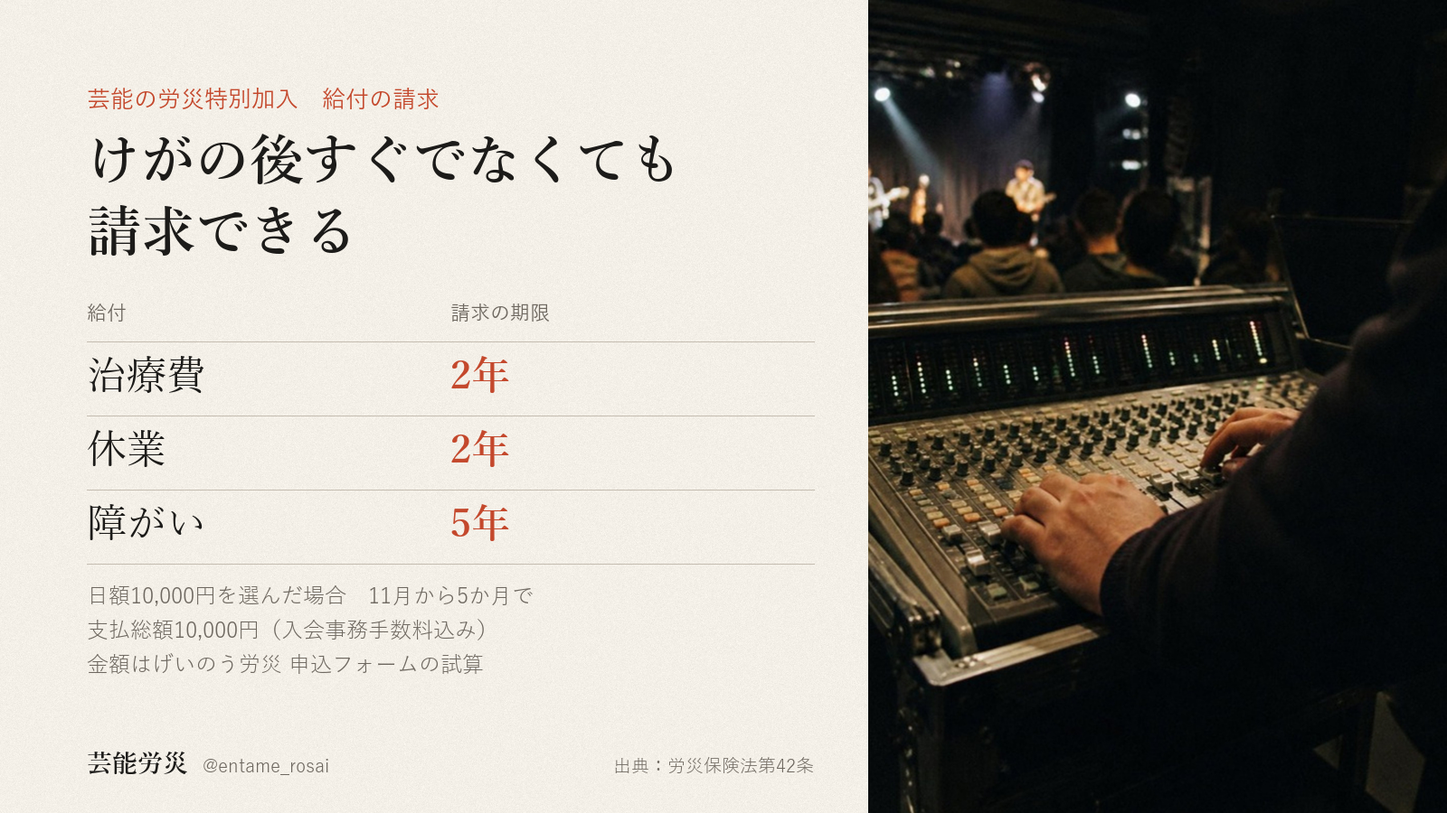
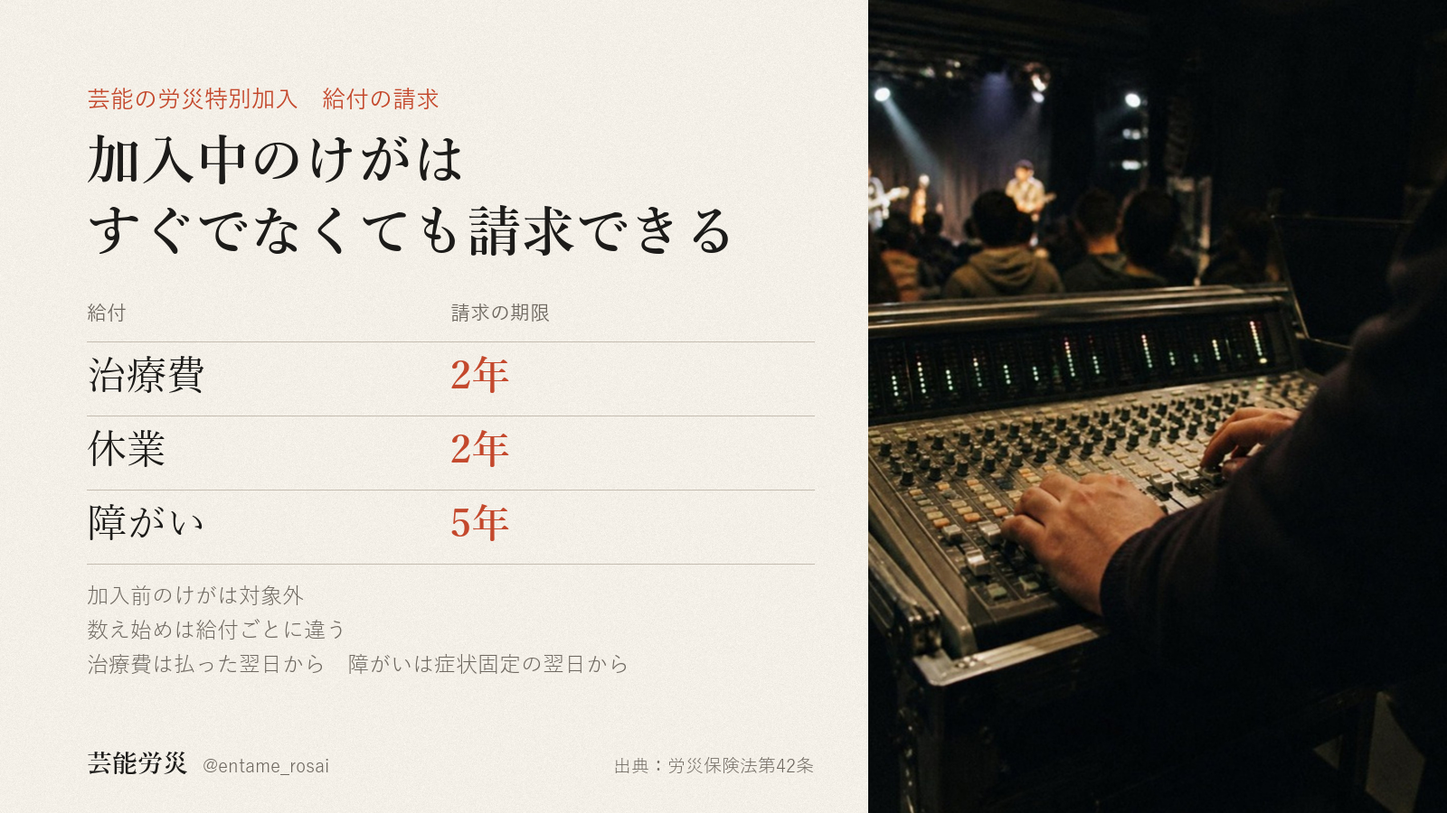
投稿デスク更新 2026-11-18 点検修正

diff --git a/index.html b/index.html
@@ -351,7 +351,7 @@ dialog img{width:100%;height:auto;border-radius:18px;display:block}
 <div class="toast" id="toast">コピーしました</div>
 <dialog id="zoom"><img alt=""></dialog>
 
-<script id="desk-data" type="application/json">{"account":"@entame_rosai","days":[{"date":"2026-11-18","label":"11月18日（水）　今日","items":[{"key":"ig","date":"2026-11-01","label":"Instagram（@entame_rosai）","account":"@entame_rosai","text":"労災の特別加入は、申込のときに「何月から入るか」「何か月入るか」「給付基礎日額をいくらにするか」の3つを自分で決めます。\n\n何月から入るかは、11月1日時点の申込フォームでは2026年11月から2027年3月までの中から選べます。何か月入るかは1か月から。公演や撮影の期間に合わせて決められます。\n\n給付基礎日額は、補償の基準になる1日あたりの額です。3,500円から25,000円までの16段階から、実際の収入とは切り離して自分で選びます。\n\n毎月の支払いは、日額10,000円を選んだ場合で月1,600円。内訳は保険料912円、組合費500円、手数料188円です。ほかに入会事務手数料2,000円が初月だけかかるので、初月の支払いは3,600円です。保険料912円の部分は社会保険料控除の対象です。\n\nひとつ大事なことがあります。さかのぼって入ることはできません。補償は申込で選んだ月から始まり、それより前のけがは対象になりません。現場の予定が決まったら、先に手続きを済ませておく形です。\n\n手続きはプロフィール欄のサイトからできます。迷う点があれば、コメントに書いてもらえれば調べます。\n\n私たちは東京労働局長の承認を受けた労災保険特別加入団体で、加入の受付もしている当事者です。そのうえで書いています。特別加入を扱う団体は、私たちのほかにもあります。\n\n※給付の可否・金額は個別の状況により労働基準監督署が判断します。\n※金額は、給付基礎日額10,000円を選んだ場合の例です。","chars":628,"lines":16,"hashtags":0,"limit":0,"status":"生成済・未投稿（本人の投稿許可あり。Chrome で instagram.com を開く操作が承認待ちのまま5分応答がなく送信されず。次に本人がいるときに投稿する）","url":"","images":[{"name":"01.png","path":"assets/2026-11-01/instagram/01.png"},{"name":"02.png","path":"assets/2026-11-01/instagram/02.png"},{"name":"03.png","path":"assets/2026-11-01/instagram/03.png"},{"name":"04.png","path":"assets/2026-11-01/instagram/04.png"},{"name":"05.png","path":"assets/2026-11-01/instagram/05.png"},{"name":"06.png","path":"assets/2026-11-01/instagram/06.png"},{"name":"07.png","path":"assets/2026-11-01/instagram/07.png"}],"alt":"--- 1枚目 ---\n暗い劇場の舞台の縁に腰かけ、赤い客席を見ている人の後ろ姿の写真。文字：フリーランスの労災保険。加入の手続き。申込で決めることと毎月の支払い。さかのぼって入ることはできないので、先に手続きの中身をまとめました。芸能労災 @entame_rosai 01/07\n\n--- 2枚目 ---\n上半分は夕方の住宅街の路上で、ブームマイクを掲げる録音係とカメラを担ぐ撮影係の後ろ姿の写真。下は生成り色の紙面。文字：申込で決めること1。何月から入るか。開始月は申込のときに選びます。11月1日時点では、2026年11月から2027年3月までの中から選べます。補償は、選んだ月から始まります。出典：当団体申込フォーム（11月1日時点）。02/07\n\n--- 3枚目 ---\n右に、屋外のカメラ機材とモニターを操作する手の縦長写真。左は紙面。文字：申込で決めること2。何か月入るか。加入期間は1か月から選べます。公演や撮影の期間に合わせて決められます。何月から何か月かを申込のときにあわせて決めます。出典：当団体申込フォーム（11月1日時点）。03/07\n\n--- 4枚目 ---\n文字だけの紙面。申込で決めること3。16段階。給付基礎日額を3,500円から25,000円まで。4列の一覧：3,500、4,000、5,000、6,000、7,000、8,000、9,000、10,000（朱色）、12,000、14,000、16,000、18,000、20,000、22,000、24,000、25,000。単位は円。補償の基準になる1日あたりの額で、実際の収入とは切り離して自分で選びます。朱色の10,000円を次のページの例に使います。出典：労災保険法（特別加入）。04/07\n\n--- 5枚目 ---\n文字だけの紙面。毎月の支払い。日額10,000円なら月1,600円。表：内訳／月額。保険料 912円。組合費 500円。手数料 188円。合計 1,600円。ほかに入会事務手数料2,000円が初月だけかかります。初月の支払いは3,600円です。支払いのうち保険料912円の部分は、社会保険料控除の対象です。出典：当団体申込フォーム（11月1日時点）。05/07\n\n--- 6枚目 ---\n上に、黒い服のスタッフ2人が大きな機材ケースを運ぶ後ろ姿の写真の帯。下は紙面。文字：大事なこと。さかのぼって入ることはできない。補償の開始：申込で選んだ月から。それより前のけが：対象外。現場の予定が決まったら：先に手続き。手続きはプロフィール欄のサイトから。迷う点があれば、コメントに書いてもらえれば調べます。出典：当団体申込フォーム（11月1日時点）。06/07\n\n--- 7枚目 ---\n舞台袖の衣装ラックと、パイプ椅子の上に開いた台本の写真を暗くした全面。文字：入る月と期間は自分で決められます。何月から何か月入るか、日額をいくらにするか。申込のときに自分で選べます。迷う点があれば、コメントに書いてもらえれば調べます。私たちは東京労働局長の承認を受けた労災保険特別加入団体で、加入の受付もしている当事者です。そのうえで書いています。特別加入を扱う団体は、私たちのほかにもあります。※給付の可否・金額は個別の状況により労働基準監督署が判断します。※金額は、給付基礎日額10,000円を選んだ場合の例です。芸能労災 @entame_rosai 07/07","check":{"errors":[],"warns":[]},"made":"2026-11-01","slot":"2026-11-18"},{"key":"x","date":"2026-11-09","label":"X（@entame_rosai）","account":"@entame_rosai","text":"労災の特別加入で仕事中のけがにより障がいが残ったとき、重い等級（1〜7級）の給付は一時金ではなく年金で、毎年続きます。日額10,000円を選んだ場合、1級で年313万円（日額の313日分）です。8〜14級は一時金です。（労災保険法 別表第1・当団体申込フォーム）","chars":131,"lines":1,"hashtags":0,"limit":140,"status":"（台帳に記載なし）","url":"","images":[{"name":"x_image.png","path":"assets/2026-11-09/x_image/x_image.png"}],"alt":"青い照明の暗い舞台に、木の椅子が4脚並んでいる写真。左の紙面に次の文字。芸能の労災特別加入　障がいが残ったとき。一時金ではなく年金で続く。重い等級（1〜7級）の給付は年金。日額10,000円を選んだ場合。1級で年313万円（日額の313日分）。8〜14級は一時金。芸能労災 @entame_rosai。出典：労災保険法 別表第1／当団体の申込フォーム","check":{"errors":[],"warns":[]},"made":"2026-11-09","slot":"2026-11-18"}]},{"date":"2026-11-19","label":"11月19日（木）　投稿予定","items":[{"key":"x","date":"2026-11-10","label":"X（@entame_rosai）","account":"@entame_rosai","text":"労災の特別加入は、現場へ向かう途中と帰り道のけがも通勤災害として対象です。芸能の仕事は適用から外れていません。ただし対象は合理的な経路に限られ、寄り道すると、その間とその後の移動は原則対象外です。給付は仕事中のけがと同じです。（労災保険法第7条・厚労省 特別加入制度のしおり）","chars":138,"lines":1,"hashtags":0,"limit":140,"status":"（台帳に記載なし）","url":"","images":[{"name":"x_image.png","path":"assets/2026-11-10/x_image/x_image.png"}],"alt":"ポスターが貼られた狭い廊下を、ギターケースを提げた長髪の人が奥へ歩いていく後ろ姿の写真。左の紙面に次の文字。芸能の労災特別加入　通勤災害。行き帰りのけがも対象。場面／労災の扱い。現場へ向かう途中／対象。現場からの帰り道／対象。経路外に寄り道／原則対象外。寄り道の間とその後の移動は原則対象外　給付は仕事中のけがと同じ。芸能労災 @entame_rosai。出典：労災保険法第7条／厚労省 特別加入のしおり","check":{"errors":[],"warns":[]},"made":"2026-11-10","slot":"2026-11-19"}]},{"date":"2026-11-20","label":"11月20日（金）　投稿予定","items":[{"key":"x","date":"2026-11-11","label":"X（@entame_rosai）","account":"@entame_rosai","text":"労災の特別加入で仕事中のけがを治療するとき、治療費に金額の上限も、決まった期間の上限もありません。症状が固定する（治療を続けても変わらない状態になる）まで療養給付の対象です。労災指定の医療機関なら窓口での支払いはありません。どの日額を選んでも同じです。（労災保険法第13条）","chars":137,"lines":1,"hashtags":0,"limit":140,"status":"（台帳に記載なし）","url":"","images":[{"name":"x_image.png","path":"assets/2026-11-11/x_image/x_image.png"}],"alt":"暗い稽古場の床に座り、足首にテーピングを巻いているダンサーの足元の写真。左の紙面に次の文字。芸能の労災特別加入　仕事中のけがの治療。治療費に上限なし。金額にも期間にも上限なし。症状が固定するまで療養給付の対象。労災指定の医療機関なら窓口での支払いなし。症状の固定＝治療を続けても変わらない状態。どの日額を選んでも同じ。芸能労災 @entame_rosai。出典：労災保険法第13条","check":{"errors":[],"warns":[]},"made":"2026-11-11","slot":"2026-11-20"}]},{"date":"2026-11-21","label":"11月21日（土）　投稿予定","items":[{"key":"x","date":"2026-11-12","label":"X（@entame_rosai）","account":"@entame_rosai","text":"「フリーランスだから、仕事中のけがは自己責任」。そう言われてきた芸能の現場に、別の選択肢があります。\n\n契約に基づいて働くフリーランスの芸能従事者は、2021年から国の労災保険に特別加入できます。治療や休業への補償がある、あなたの側の制度です。\n\n（出典：労災保険法第35条）\n\n――――――――――――――――――――\n字数：138字（改行4含む）／本文134字\n型：権利フレーム（型3・誤解修正の系統。矛先を「言われてきた言い方＝構造」に置く）\n導線：プロフィール欄（rousai.or.jp）。本文に外部リンクなし\n\n検証メモ\n- 140字以内：○（138）／10行以内：○（5行）\n- ハッシュタグ0・絵文字0・本文リンク0・出典を本文末に括弧書き：○\n- 「すべての芸能従事者」ではなく「フリーランスの芸能従事者」：○\n- 給付額・保険料の数字に触れていない＝前提併記/総額表記は不要：○\n- 補償（保障ではない）：○／厚生労働省認可など禁止表現なし：○\n- 締め方：「あなたの側の制度です」＝権利フレーム。禁止の締め（知っていましたか／しませんか／たった／怪我をしてからでは遅い）に該当なし：○\n- 受信者テスト：すでにけがをして自費で払った人が読んでも、矛先は「自己責任と言われてきた構造」に向き、本人を責めない。「別の選択肢／あなたの側」で迎える構成：○\n- 直近重複チェック：10/4〜11/1 の投稿は給付の中身・遡及不可・海外比較が中心。本案は対象認知（権利フレーム）で角度が異なる：○\n\n未了（投稿前に必要）\n- 図解/写真画像＋代替テキスト（現行の紙＋写真デザイン。tools/x_image.py の paper_ 系）\n- 投稿デスク（投稿サイト/build.py）への反映\n- 公開前に tools/check_post.py と daily-checker を通す\n- 投稿は本人の許可を得てから（自動投稿しない）","chars":799,"lines":26,"hashtags":0,"limit":140,"status":"（台帳に記載なし）","url":"","images":[{"name":"x_image.png","path":"assets/2026-11-12/x_image/x_image.png"}],"alt":"軍手をはめた両手が、舞台の黒い床に白いテープで立ち位置の目印を貼っている手元の写真。顔は写っていない。左の紙面に次の文字。芸能の労災特別加入　保険料と確定申告。912円。月の保険料は全額が社会保険料控除の対象。日額10,000円を選んだ場合　月の支払い1,600円のうちの保険料。ほかに初月のみ入会事務手数料2,000円。芸能労災 @entame_rosai。出典：国税庁 No.1130　金額は申込フォームの試算","check":{"errors":["禁止文字列: 知っていましたか（1件）　… …方：「あなたの側の制度です」＝権利フレーム。禁止の締め（知っていましたか／しませんか／たった／怪我をしてからでは遅い）に該当なし…","禁止表現: 保障（1件）　… …に触れていない＝前提併記/総額表記は不要：○ - 補償（保障ではない）：○／厚生労働省認可など禁止表現なし：○ - …","禁止表現: 厚生労働省認可（1件）　… …併記/総額表記は不要：○ - 補償（保障ではない）：○／厚生労働省認可など禁止表現なし：○ - 締め方：「あなたの側の制度です…","禁止表現: すべての芸能従事者（1件）　… …文字0・本文リンク0・出典を本文末に括弧書き：○ - 「すべての芸能従事者」ではなく「フリーランスの芸能従事者」：○ - 給付額・…","禁止表現: たった（1件）　… …権利フレーム。禁止の締め（知っていましたか／しませんか／たった／怪我をしてからでは遅い）に該当なし：○ - 受信者テス…","禁止表現: しませんか（1件）　… …制度です」＝権利フレーム。禁止の締め（知っていましたか／しませんか／たった／怪我をしてからでは遅い）に該当なし：○ - 受…","禁止表現: 怪我をしてからでは遅い（1件）　… …ーム。禁止の締め（知っていましたか／しませんか／たった／怪我をしてからでは遅い）に該当なし：○ - 受信者テスト：すでにけがをして自費…","絵文字: ○○○○○○○○○○","内部ラベルが本文に混ざっている: 型3","内部ラベルが本文に混ざっている: 検証メモ","内部ラベルが本文に混ざっている: 受信者テスト"],"warns":[]},"made":"2026-11-12","slot":"2026-11-21"}]},{"date":"2026-11-22","label":"11月22日（日）　投稿予定","items":[{"key":"x","date":"2026-11-13","label":"X（@entame_rosai）","account":"@entame_rosai","text":"労災の特別加入が対象にするのは、本番だけではありません。契約に基づく稽古やリハーサル中のけがも対象です。契約と結びつかない自主練習は、認められない場合があります。対象になるかは、労働基準監督署が個別に判断します。\n（労災保険法の特別加入・厚生労働省の通達）","chars":127,"lines":2,"hashtags":0,"limit":140,"status":"（台帳に記載なし）","url":"","images":[{"name":"x_image.png","path":"assets/2026-11-13/x_image/x_image.png"}],"alt":"夕方の光が差しこむ、だれもいない稽古場。壁に鏡とバー、時計がある写真。その左に文字。「芸能の労災特別加入　仕事中のけがの範囲　本番だけではありません」。表は、けがをした場面と扱い。本番：対象。契約に基づく稽古：対象。自主練習：対象外の場合あり。「契約に基づくリハーサルも対象です　対象になるかは労働基準監督署が個別に判断します」。出典：労災保険法の特別加入　厚生労働省の通達。芸能労災 @entame_rosai","check":{"errors":[],"warns":[]},"made":"2026-11-13","slot":"2026-11-22"}]},{"date":"2026-11-23","label":"11月23日（月）　投稿予定","items":[{"key":"x","date":"2026-11-14","label":"X（@entame_rosai）","account":"@entame_rosai","text":"労災の特別加入で受け取る給付に税金はかかりません。払った保険料は全額が社会保険料控除の対象です。日額10,000円を選んだ場合の支払いは月1,600円（保険料912円＋組合費500円＋手数料188円）と入会事務手数料2,000円。控除の対象は保険料です。\n（労災保険法・所得税法）","chars":139,"lines":2,"hashtags":0,"limit":140,"status":"（台帳に記載なし）","url":"","images":[{"name":"x_image.png","path":"assets/2026-11-14/x_image/x_image.png"}],"alt":"稽古場の木の机に、開いた台本と鉛筆が置かれている写真。奥に折りたたみ椅子と窓。左側の紙面に次の文字。「芸能の労災特別加入　税金の扱い」「給付に税金はかかりません」「受け取る給付は非課税　払った保険料は全額が社会保険料控除の対象」「日額10,000円を選んだ場合　月1,600円　保険料912円＋組合費500円＋手数料188円　ほかに入会事務手数料2,000円　控除の対象は保険料です」「芸能労災 @entame_rosai」「出典：労災保険法　所得税法」","check":{"errors":[],"warns":[]},"made":"2026-11-14","slot":"2026-11-23"}]},{"date":"2026-11-24","label":"11月24日（火）　投稿予定","items":[{"key":"x","date":"2026-11-15","label":"X（@entame_rosai）","account":"@entame_rosai","text":"労災の特別加入で、仕事中のけがにより働けない日は休業の給付があります。日額10,000円を選んだ場合、1日8,000円（休業補償給付60%＋特別支給金20%）。4日目からで、まったく働けない日が対象です。期間の上限はありません。（労災保険法・労災保険特別支給金規則）","chars":133,"lines":1,"hashtags":0,"limit":140,"status":"（台帳に記載なし）","url":"","images":[{"name":"x_image.png","path":"assets/2026-11-15/x_image/x_image.png"}],"alt":"左に生成りの紙、右に写真。写真は電球の並んだ鏡のある楽屋で、鏡の前に化粧筆の入った容器と椅子が置かれている。人は写っていない。\n画像の文字：「芸能の労災特別加入　休業の給付」「80%」「働けない日は1日につき 給付基礎日額の80%」「日額10,000円を選んだ場合　1日8,000円」「休業補償給付60%＋特別支給金20%」「4日目から　まったく働けない日が対象　期間の上限なし」「芸能労災 @entame_rosai」「出典：労災保険法　労災保険特別支給金規則」","check":{"errors":[],"warns":[]},"made":"2026-11-15","slot":"2026-11-24"}]},{"date":"2026-11-25","label":"11月25日（水）　投稿予定","items":[{"key":"x","date":"2026-11-16","label":"X（@entame_rosai）","account":"@entame_rosai","text":"労災の特別加入の申込では、加入を始める月と、加入する月数を自分で選びます。日額10,000円を選んだ場合、11月から5か月の加入で支払総額は10,000円です（月1,600円×5か月＋入会事務手数料2,000円）。（げいのう労災 申込フォームの試算）","chars":125,"lines":1,"hashtags":0,"limit":140,"status":"（台帳に記載なし）","url":"","images":[{"name":"x_image.png","path":"assets/2026-11-16/x_image/x_image.png"}],"alt":"左に生成りの紙、右に写真。写真は暗い空間に吊られた舞台用のスポットライトが4灯並んで点いているところで、光の中に薄く煙が漂っている。人は写っていない。\n画像の文字：「芸能の労災特別加入　申込のしくみ」「始める月と月数は 自分で選ぶ」「11月から5か月の場合　金額」「月の支払い5か月分　8,000円」「入会事務手数料　2,000円」「支払総額　10,000円」「日額10,000円を選んだ場合　月の支払いは1,600円」「内訳＝保険料912円＋組合費500円＋手数料188円」「芸能労災 @entame_rosai」「出典：げいのう労災　申込フォームの試算」","check":{"errors":[],"warns":[]},"made":"2026-11-16","slot":"2026-11-25"}]},{"date":"2026-11-26","label":"11月26日（木）　投稿予定","items":[{"key":"x","date":"2026-11-17","label":"X（@entame_rosai）","account":"@entame_rosai","text":"労災の特別加入は2024年11月から、企業から仕事を受けるフリーランス全般に広がりました。芸能の仕事は2021年4月から対象です。日額10,000円を選んだ場合、11月から5か月で支払総額10,000円（入会事務手数料込み）。（厚生労働省／げいのう労災 申込フォームの試算）","chars":137,"lines":1,"hashtags":0,"limit":140,"status":"（台帳に記載なし）","url":"","images":[{"name":"x_image.png","path":"assets/2026-11-17/x_image/x_image.png"}],"alt":"左は生成りの紙の地に文字、右は暗い舞台の床を紫のスポットライト3灯が照らす写真。文字：芸能の労災特別加入　対象の広がり。芸能の仕事は2021年4月から対象。2024年11月からは企業から仕事を受けるフリーランス全般に広がった。日額10,000円を選んだ場合　11月から5か月で支払総額10,000円（入会事務手数料込み）。金額はげいのう労災 申込フォームの試算。出典：厚生労働省。芸能労災 @entame_rosai","check":{"errors":[],"warns":[]},"made":"2026-11-17","slot":"2026-11-26"}]},{"date":"2026-11-27","label":"11月27日（金）　投稿予定","items":[{"key":"x","date":"2026-11-18","label":"X（@entame_rosai）","account":"@entame_rosai","text":"労災の特別加入の給付は、けがの後すぐに請求しなくても受け取れます。請求の期限は治療費と休業の給付が2年、障がいの給付が5年です。日額10,000円を選んだ場合、11月から5か月で支払総額10,000円（入会事務手数料込み）。（労災保険法第42条／げいのう労災 申込フォームの試算）","chars":140,"lines":1,"hashtags":0,"limit":140,"status":"（台帳に記載なし）","url":"","images":[{"name":"x_image.png","path":"assets/2026-11-18/x_image/x_image.png"}],"alt":"ライブ会場の客席後方で、音響担当の手がミキサー卓のつまみを操作している写真。奥のステージではギターを持った演奏者に照明が当たっている。左側の文字：芸能の労災特別加入　給付の請求。けがの後すぐでなくても請求できる。給付と請求の期限の表：治療費 2年、休業 2年、障がい 5年。日額10,000円を選んだ場合　11月から5か月で支払総額10,000円（入会事務手数料込み）。金額はげいのう労災 申込フォームの試算。出典：労災保険法第42条。芸能労災 @entame_rosai","check":{"errors":[],"warns":[]},"made":"2026-11-18","slot":"2026-11-27"}]}],"todo":[{"due":"今日","who":"作業者","title":"X（@entame_rosai）の今日の投稿","detail":"画像1枚を添付 → 代替テキストを入れる → 本文を貼る、の順。代替テキストは直近の投稿で入っていません。X は投稿後に足せません。","cid":"c-2026-11-09-x"},{"due":"今日","who":"作業者","title":"Instagram を1本投稿（11/1（日）作成の分）","detail":"画像7枚をこの順で添付し、1枚ずつ代替テキストを入れる。未投稿は1本。前回の公開から1週間あけて1本ずつ。","cid":"c-2026-11-01-ig"},{"due":"未公開のまま","who":"矢部さん","title":"note の記事を公開（09/18作成）","detail":"このデスクには載っていません（note は矢部さんの手元の下書き）。公開するときは見出し画像を必ず設定。","cid":""},{"due":"未公開のまま","who":"矢部さん","title":"note の記事を公開（10/09作成）","detail":"このデスクには載っていません（note は矢部さんの手元の下書き）。公開するときは見出し画像を必ず設定。","cid":""},{"due":"投稿のたび","who":"作業者","title":"投稿URLと名前を、そのカードの欄に保存","detail":"記録が集まらないと、何が出たかを後から確かめられません。","cid":""}],"builtAt":"2026-11-18 12:03","today":"2026-11-18","followers":{"date":"10-13","x":5,"ig":21,"note":0},"hero":"assets/hero.jpg","endpoint":"https://script.google.com/macros/s/AKfycbxhxM75PszpPOX_HDJ4yuBmQSqu1b7CXq2sbCxlqTZ_TyF8hROH2MyKnYNU11avb8UQCA/exec"}</script>
+<script id="desk-data" type="application/json">{"account":"@entame_rosai","days":[{"date":"2026-11-18","label":"11月18日（水）　今日","items":[{"key":"ig","date":"2026-11-01","label":"Instagram（@entame_rosai）","account":"@entame_rosai","text":"労災の特別加入は、申込のときに「何月から入るか」「何か月入るか」「給付基礎日額をいくらにするか」の3つを自分で決めます。\n\n何月から入るかは、11月1日時点の申込フォームでは2026年11月から2027年3月までの中から選べます。何か月入るかは1か月から。公演や撮影の期間に合わせて決められます。\n\n給付基礎日額は、補償の基準になる1日あたりの額です。3,500円から25,000円までの16段階から、実際の収入とは切り離して自分で選びます。\n\n毎月の支払いは、日額10,000円を選んだ場合で月1,600円。内訳は保険料912円、組合費500円、手数料188円です。ほかに入会事務手数料2,000円が初月だけかかるので、初月の支払いは3,600円です。保険料912円の部分は社会保険料控除の対象です。\n\nひとつ大事なことがあります。さかのぼって入ることはできません。補償は申込で選んだ月から始まり、それより前のけがは対象になりません。現場の予定が決まったら、先に手続きを済ませておく形です。\n\n手続きはプロフィール欄のサイトからできます。迷う点があれば、コメントに書いてもらえれば調べます。\n\n私たちは東京労働局長の承認を受けた労災保険特別加入団体で、加入の受付もしている当事者です。そのうえで書いています。特別加入を扱う団体は、私たちのほかにもあります。\n\n※給付の可否・金額は個別の状況により労働基準監督署が判断します。\n※金額は、給付基礎日額10,000円を選んだ場合の例です。","chars":628,"lines":16,"hashtags":0,"limit":0,"status":"生成済・未投稿（本人の投稿許可あり。Chrome で instagram.com を開く操作が承認待ちのまま5分応答がなく送信されず。次に本人がいるときに投稿する）","url":"","images":[{"name":"01.png","path":"assets/2026-11-01/instagram/01.png"},{"name":"02.png","path":"assets/2026-11-01/instagram/02.png"},{"name":"03.png","path":"assets/2026-11-01/instagram/03.png"},{"name":"04.png","path":"assets/2026-11-01/instagram/04.png"},{"name":"05.png","path":"assets/2026-11-01/instagram/05.png"},{"name":"06.png","path":"assets/2026-11-01/instagram/06.png"},{"name":"07.png","path":"assets/2026-11-01/instagram/07.png"}],"alt":"--- 1枚目 ---\n暗い劇場の舞台の縁に腰かけ、赤い客席を見ている人の後ろ姿の写真。文字：フリーランスの労災保険。加入の手続き。申込で決めることと毎月の支払い。さかのぼって入ることはできないので、先に手続きの中身をまとめました。芸能労災 @entame_rosai 01/07\n\n--- 2枚目 ---\n上半分は夕方の住宅街の路上で、ブームマイクを掲げる録音係とカメラを担ぐ撮影係の後ろ姿の写真。下は生成り色の紙面。文字：申込で決めること1。何月から入るか。開始月は申込のときに選びます。11月1日時点では、2026年11月から2027年3月までの中から選べます。補償は、選んだ月から始まります。出典：当団体申込フォーム（11月1日時点）。02/07\n\n--- 3枚目 ---\n右に、屋外のカメラ機材とモニターを操作する手の縦長写真。左は紙面。文字：申込で決めること2。何か月入るか。加入期間は1か月から選べます。公演や撮影の期間に合わせて決められます。何月から何か月かを申込のときにあわせて決めます。出典：当団体申込フォーム（11月1日時点）。03/07\n\n--- 4枚目 ---\n文字だけの紙面。申込で決めること3。16段階。給付基礎日額を3,500円から25,000円まで。4列の一覧：3,500、4,000、5,000、6,000、7,000、8,000、9,000、10,000（朱色）、12,000、14,000、16,000、18,000、20,000、22,000、24,000、25,000。単位は円。補償の基準になる1日あたりの額で、実際の収入とは切り離して自分で選びます。朱色の10,000円を次のページの例に使います。出典：労災保険法（特別加入）。04/07\n\n--- 5枚目 ---\n文字だけの紙面。毎月の支払い。日額10,000円なら月1,600円。表：内訳／月額。保険料 912円。組合費 500円。手数料 188円。合計 1,600円。ほかに入会事務手数料2,000円が初月だけかかります。初月の支払いは3,600円です。支払いのうち保険料912円の部分は、社会保険料控除の対象です。出典：当団体申込フォーム（11月1日時点）。05/07\n\n--- 6枚目 ---\n上に、黒い服のスタッフ2人が大きな機材ケースを運ぶ後ろ姿の写真の帯。下は紙面。文字：大事なこと。さかのぼって入ることはできない。補償の開始：申込で選んだ月から。それより前のけが：対象外。現場の予定が決まったら：先に手続き。手続きはプロフィール欄のサイトから。迷う点があれば、コメントに書いてもらえれば調べます。出典：当団体申込フォーム（11月1日時点）。06/07\n\n--- 7枚目 ---\n舞台袖の衣装ラックと、パイプ椅子の上に開いた台本の写真を暗くした全面。文字：入る月と期間は自分で決められます。何月から何か月入るか、日額をいくらにするか。申込のときに自分で選べます。迷う点があれば、コメントに書いてもらえれば調べます。私たちは東京労働局長の承認を受けた労災保険特別加入団体で、加入の受付もしている当事者です。そのうえで書いています。特別加入を扱う団体は、私たちのほかにもあります。※給付の可否・金額は個別の状況により労働基準監督署が判断します。※金額は、給付基礎日額10,000円を選んだ場合の例です。芸能労災 @entame_rosai 07/07","check":{"errors":[],"warns":[]},"made":"2026-11-01","slot":"2026-11-18"},{"key":"x","date":"2026-11-09","label":"X（@entame_rosai）","account":"@entame_rosai","text":"労災の特別加入で仕事中のけがにより障がいが残ったとき、重い等級（1〜7級）の給付は一時金ではなく年金で、毎年続きます。日額10,000円を選んだ場合、1級で年313万円（日額の313日分）です。8〜14級は一時金です。（労災保険法 別表第1・当団体申込フォーム）","chars":131,"lines":1,"hashtags":0,"limit":140,"status":"（台帳に記載なし）","url":"","images":[{"name":"x_image.png","path":"assets/2026-11-09/x_image/x_image.png"}],"alt":"青い照明の暗い舞台に、木の椅子が4脚並んでいる写真。左の紙面に次の文字。芸能の労災特別加入　障がいが残ったとき。一時金ではなく年金で続く。重い等級（1〜7級）の給付は年金。日額10,000円を選んだ場合。1級で年313万円（日額の313日分）。8〜14級は一時金。芸能労災 @entame_rosai。出典：労災保険法 別表第1／当団体の申込フォーム","check":{"errors":[],"warns":[]},"made":"2026-11-09","slot":"2026-11-18"}]},{"date":"2026-11-19","label":"11月19日（木）　投稿予定","items":[{"key":"x","date":"2026-11-10","label":"X（@entame_rosai）","account":"@entame_rosai","text":"労災の特別加入は、現場へ向かう途中と帰り道のけがも通勤災害として対象です。芸能の仕事は適用から外れていません。ただし対象は合理的な経路に限られ、寄り道すると、その間とその後の移動は原則対象外です。給付は仕事中のけがと同じです。（労災保険法第7条・厚労省 特別加入制度のしおり）","chars":138,"lines":1,"hashtags":0,"limit":140,"status":"（台帳に記載なし）","url":"","images":[{"name":"x_image.png","path":"assets/2026-11-10/x_image/x_image.png"}],"alt":"ポスターが貼られた狭い廊下を、ギターケースを提げた長髪の人が奥へ歩いていく後ろ姿の写真。左の紙面に次の文字。芸能の労災特別加入　通勤災害。行き帰りのけがも対象。場面／労災の扱い。現場へ向かう途中／対象。現場からの帰り道／対象。経路外に寄り道／原則対象外。寄り道の間とその後の移動は原則対象外　給付は仕事中のけがと同じ。芸能労災 @entame_rosai。出典：労災保険法第7条／厚労省 特別加入のしおり","check":{"errors":[],"warns":[]},"made":"2026-11-10","slot":"2026-11-19"}]},{"date":"2026-11-20","label":"11月20日（金）　投稿予定","items":[{"key":"x","date":"2026-11-11","label":"X（@entame_rosai）","account":"@entame_rosai","text":"労災の特別加入で仕事中のけがを治療するとき、治療費に金額の上限も、決まった期間の上限もありません。症状が固定する（治療を続けても変わらない状態になる）まで療養給付の対象です。労災指定の医療機関なら窓口での支払いはありません。どの日額を選んでも同じです。（労災保険法第13条）","chars":137,"lines":1,"hashtags":0,"limit":140,"status":"（台帳に記載なし）","url":"","images":[{"name":"x_image.png","path":"assets/2026-11-11/x_image/x_image.png"}],"alt":"暗い稽古場の床に座り、足首にテーピングを巻いているダンサーの足元の写真。左の紙面に次の文字。芸能の労災特別加入　仕事中のけがの治療。治療費に上限なし。金額にも期間にも上限なし。症状が固定するまで療養給付の対象。労災指定の医療機関なら窓口での支払いなし。症状の固定＝治療を続けても変わらない状態。どの日額を選んでも同じ。芸能労災 @entame_rosai。出典：労災保険法第13条","check":{"errors":[],"warns":[]},"made":"2026-11-11","slot":"2026-11-20"}]},{"date":"2026-11-21","label":"11月21日（土）　投稿予定","items":[{"key":"x","date":"2026-11-12","label":"X（@entame_rosai）","account":"@entame_rosai","text":"「フリーランスだから、仕事中のけがは自己責任」。そう言われてきた芸能の現場に、別の選択肢があります。\n\n契約に基づいて働くフリーランスの芸能従事者は、2021年から国の労災保険に特別加入できます。治療や休業への補償がある、あなたの側の制度です。\n\n（出典：労災保険法第35条）\n\n――――――――――――――――――――\n字数：138字（改行4含む）／本文134字\n型：権利フレーム（型3・誤解修正の系統。矛先を「言われてきた言い方＝構造」に置く）\n導線：プロフィール欄（rousai.or.jp）。本文に外部リンクなし\n\n検証メモ\n- 140字以内：○（138）／10行以内：○（5行）\n- ハッシュタグ0・絵文字0・本文リンク0・出典を本文末に括弧書き：○\n- 「すべての芸能従事者」ではなく「フリーランスの芸能従事者」：○\n- 給付額・保険料の数字に触れていない＝前提併記/総額表記は不要：○\n- 補償（保障ではない）：○／厚生労働省認可など禁止表現なし：○\n- 締め方：「あなたの側の制度です」＝権利フレーム。禁止の締め（知っていましたか／しませんか／たった／怪我をしてからでは遅い）に該当なし：○\n- 受信者テスト：すでにけがをして自費で払った人が読んでも、矛先は「自己責任と言われてきた構造」に向き、本人を責めない。「別の選択肢／あなたの側」で迎える構成：○\n- 直近重複チェック：10/4〜11/1 の投稿は給付の中身・遡及不可・海外比較が中心。本案は対象認知（権利フレーム）で角度が異なる：○\n\n未了（投稿前に必要）\n- 図解/写真画像＋代替テキスト（現行の紙＋写真デザイン。tools/x_image.py の paper_ 系）\n- 投稿デスク（投稿サイト/build.py）への反映\n- 公開前に tools/check_post.py と daily-checker を通す\n- 投稿は本人の許可を得てから（自動投稿しない）","chars":799,"lines":26,"hashtags":0,"limit":140,"status":"（台帳に記載なし）","url":"","images":[{"name":"x_image.png","path":"assets/2026-11-12/x_image/x_image.png"}],"alt":"軍手をはめた両手が、舞台の黒い床に白いテープで立ち位置の目印を貼っている手元の写真。顔は写っていない。左の紙面に次の文字。芸能の労災特別加入　保険料と確定申告。912円。月の保険料は全額が社会保険料控除の対象。日額10,000円を選んだ場合　月の支払い1,600円のうちの保険料。ほかに初月のみ入会事務手数料2,000円。芸能労災 @entame_rosai。出典：国税庁 No.1130　金額は申込フォームの試算","check":{"errors":["禁止文字列: 知っていましたか（1件）　… …方：「あなたの側の制度です」＝権利フレーム。禁止の締め（知っていましたか／しませんか／たった／怪我をしてからでは遅い）に該当なし…","禁止表現: 保障（1件）　… …に触れていない＝前提併記/総額表記は不要：○ - 補償（保障ではない）：○／厚生労働省認可など禁止表現なし：○ - …","禁止表現: 厚生労働省認可（1件）　… …併記/総額表記は不要：○ - 補償（保障ではない）：○／厚生労働省認可など禁止表現なし：○ - 締め方：「あなたの側の制度です…","禁止表現: すべての芸能従事者（1件）　… …文字0・本文リンク0・出典を本文末に括弧書き：○ - 「すべての芸能従事者」ではなく「フリーランスの芸能従事者」：○ - 給付額・…","禁止表現: たった（1件）　… …権利フレーム。禁止の締め（知っていましたか／しませんか／たった／怪我をしてからでは遅い）に該当なし：○ - 受信者テス…","禁止表現: しませんか（1件）　… …制度です」＝権利フレーム。禁止の締め（知っていましたか／しませんか／たった／怪我をしてからでは遅い）に該当なし：○ - 受…","禁止表現: 怪我をしてからでは遅い（1件）　… …ーム。禁止の締め（知っていましたか／しませんか／たった／怪我をしてからでは遅い）に該当なし：○ - 受信者テスト：すでにけがをして自費…","絵文字: ○○○○○○○○○○","内部ラベルが本文に混ざっている: 型3","内部ラベルが本文に混ざっている: 検証メモ","内部ラベルが本文に混ざっている: 受信者テスト"],"warns":[]},"made":"2026-11-12","slot":"2026-11-21"}]},{"date":"2026-11-22","label":"11月22日（日）　投稿予定","items":[{"key":"x","date":"2026-11-13","label":"X（@entame_rosai）","account":"@entame_rosai","text":"労災の特別加入が対象にするのは、本番だけではありません。契約に基づく稽古やリハーサル中のけがも対象です。契約と結びつかない自主練習は、認められない場合があります。対象になるかは、労働基準監督署が個別に判断します。\n（労災保険法の特別加入・厚生労働省の通達）","chars":127,"lines":2,"hashtags":0,"limit":140,"status":"（台帳に記載なし）","url":"","images":[{"name":"x_image.png","path":"assets/2026-11-13/x_image/x_image.png"}],"alt":"夕方の光が差しこむ、だれもいない稽古場。壁に鏡とバー、時計がある写真。その左に文字。「芸能の労災特別加入　仕事中のけがの範囲　本番だけではありません」。表は、けがをした場面と扱い。本番：対象。契約に基づく稽古：対象。自主練習：対象外の場合あり。「契約に基づくリハーサルも対象です　対象になるかは労働基準監督署が個別に判断します」。出典：労災保険法の特別加入　厚生労働省の通達。芸能労災 @entame_rosai","check":{"errors":[],"warns":[]},"made":"2026-11-13","slot":"2026-11-22"}]},{"date":"2026-11-23","label":"11月23日（月）　投稿予定","items":[{"key":"x","date":"2026-11-14","label":"X（@entame_rosai）","account":"@entame_rosai","text":"労災の特別加入で受け取る給付に税金はかかりません。払った保険料は全額が社会保険料控除の対象です。日額10,000円を選んだ場合の支払いは月1,600円（保険料912円＋組合費500円＋手数料188円）と入会事務手数料2,000円。控除の対象は保険料です。\n（労災保険法・所得税法）","chars":139,"lines":2,"hashtags":0,"limit":140,"status":"（台帳に記載なし）","url":"","images":[{"name":"x_image.png","path":"assets/2026-11-14/x_image/x_image.png"}],"alt":"稽古場の木の机に、開いた台本と鉛筆が置かれている写真。奥に折りたたみ椅子と窓。左側の紙面に次の文字。「芸能の労災特別加入　税金の扱い」「給付に税金はかかりません」「受け取る給付は非課税　払った保険料は全額が社会保険料控除の対象」「日額10,000円を選んだ場合　月1,600円　保険料912円＋組合費500円＋手数料188円　ほかに入会事務手数料2,000円　控除の対象は保険料です」「芸能労災 @entame_rosai」「出典：労災保険法　所得税法」","check":{"errors":[],"warns":[]},"made":"2026-11-14","slot":"2026-11-23"}]},{"date":"2026-11-24","label":"11月24日（火）　投稿予定","items":[{"key":"x","date":"2026-11-15","label":"X（@entame_rosai）","account":"@entame_rosai","text":"労災の特別加入で、仕事中のけがにより働けない日は休業の給付があります。日額10,000円を選んだ場合、1日8,000円（休業補償給付60%＋特別支給金20%）。4日目からで、まったく働けない日が対象です。期間の上限はありません。（労災保険法・労災保険特別支給金規則）","chars":133,"lines":1,"hashtags":0,"limit":140,"status":"（台帳に記載なし）","url":"","images":[{"name":"x_image.png","path":"assets/2026-11-15/x_image/x_image.png"}],"alt":"左に生成りの紙、右に写真。写真は電球の並んだ鏡のある楽屋で、鏡の前に化粧筆の入った容器と椅子が置かれている。人は写っていない。\n画像の文字：「芸能の労災特別加入　休業の給付」「80%」「働けない日は1日につき 給付基礎日額の80%」「日額10,000円を選んだ場合　1日8,000円」「休業補償給付60%＋特別支給金20%」「4日目から　まったく働けない日が対象　期間の上限なし」「芸能労災 @entame_rosai」「出典：労災保険法　労災保険特別支給金規則」","check":{"errors":[],"warns":[]},"made":"2026-11-15","slot":"2026-11-24"}]},{"date":"2026-11-25","label":"11月25日（水）　投稿予定","items":[{"key":"x","date":"2026-11-16","label":"X（@entame_rosai）","account":"@entame_rosai","text":"労災の特別加入の申込では、加入を始める月と、加入する月数を自分で選びます。日額10,000円を選んだ場合、11月から5か月の加入で支払総額は10,000円です（月1,600円×5か月＋入会事務手数料2,000円）。（げいのう労災 申込フォームの試算）","chars":125,"lines":1,"hashtags":0,"limit":140,"status":"（台帳に記載なし）","url":"","images":[{"name":"x_image.png","path":"assets/2026-11-16/x_image/x_image.png"}],"alt":"左に生成りの紙、右に写真。写真は暗い空間に吊られた舞台用のスポットライトが4灯並んで点いているところで、光の中に薄く煙が漂っている。人は写っていない。\n画像の文字：「芸能の労災特別加入　申込のしくみ」「始める月と月数は 自分で選ぶ」「11月から5か月の場合　金額」「月の支払い5か月分　8,000円」「入会事務手数料　2,000円」「支払総額　10,000円」「日額10,000円を選んだ場合　月の支払いは1,600円」「内訳＝保険料912円＋組合費500円＋手数料188円」「芸能労災 @entame_rosai」「出典：げいのう労災　申込フォームの試算」","check":{"errors":[],"warns":[]},"made":"2026-11-16","slot":"2026-11-25"}]},{"date":"2026-11-26","label":"11月26日（木）　投稿予定","items":[{"key":"x","date":"2026-11-17","label":"X（@entame_rosai）","account":"@entame_rosai","text":"労災の特別加入は2024年11月から、企業から仕事を受けるフリーランス全般に広がりました。芸能の仕事は2021年4月から対象です。日額10,000円を選んだ場合、11月から5か月で支払総額10,000円（入会事務手数料込み）。（厚生労働省／げいのう労災 申込フォームの試算）","chars":137,"lines":1,"hashtags":0,"limit":140,"status":"（台帳に記載なし）","url":"","images":[{"name":"x_image.png","path":"assets/2026-11-17/x_image/x_image.png"}],"alt":"左は生成りの紙の地に文字、右は暗い舞台の床を紫のスポットライト3灯が照らす写真。文字：芸能の労災特別加入　対象の広がり。芸能の仕事は2021年4月から対象。2024年11月からは企業から仕事を受けるフリーランス全般に広がった。日額10,000円を選んだ場合　11月から5か月で支払総額10,000円（入会事務手数料込み）。金額はげいのう労災 申込フォームの試算。出典：厚生労働省。芸能労災 @entame_rosai","check":{"errors":[],"warns":[]},"made":"2026-11-17","slot":"2026-11-26"}]},{"date":"2026-11-27","label":"11月27日（金）　投稿予定","items":[{"key":"x","date":"2026-11-18","label":"X（@entame_rosai）","account":"@entame_rosai","text":"労災の特別加入で、加入中に起きた仕事中のけがの給付は、すぐに請求しなくても受け取れます。請求の期限は治療費と休業の給付が2年、障がいの給付が5年。数え始めは給付ごとに違い、治療費は払った翌日、障がいは症状が固定した翌日からです。（労災保険法第42条）","chars":125,"lines":1,"hashtags":0,"limit":140,"status":"（台帳に記載なし）","url":"","images":[{"name":"x_image.png","path":"assets/2026-11-18/x_image/x_image.png"}],"alt":"ライブ会場の客席後方で、音響担当の手がミキサー卓のつまみを操作している写真。奥のステージではギターを持った演奏者に照明が当たっている。左側の文字：芸能の労災特別加入　給付の請求。加入中のけがは　すぐでなくても請求できる。給付と請求の期限の表：治療費 2年、休業 2年、障がい 5年。加入前のけがは対象外。数え始めは給付ごとに違う。治療費は払った翌日から　障がいは症状固定の翌日から。出典：労災保険法第42条。芸能労災 @entame_rosai","check":{"errors":[],"warns":[]},"made":"2026-11-18","slot":"2026-11-27"}]}],"todo":[{"due":"今日","who":"作業者","title":"X（@entame_rosai）の今日の投稿","detail":"画像1枚を添付 → 代替テキストを入れる → 本文を貼る、の順。代替テキストは直近の投稿で入っていません。X は投稿後に足せません。","cid":"c-2026-11-09-x"},{"due":"今日","who":"作業者","title":"Instagram を1本投稿（11/1（日）作成の分）","detail":"画像7枚をこの順で添付し、1枚ずつ代替テキストを入れる。未投稿は1本。前回の公開から1週間あけて1本ずつ。","cid":"c-2026-11-01-ig"},{"due":"未公開のまま","who":"矢部さん","title":"note の記事を公開（09/18作成）","detail":"このデスクには載っていません（note は矢部さんの手元の下書き）。公開するときは見出し画像を必ず設定。","cid":""},{"due":"未公開のまま","who":"矢部さん","title":"note の記事を公開（10/09作成）","detail":"このデスクには載っていません（note は矢部さんの手元の下書き）。公開するときは見出し画像を必ず設定。","cid":""},{"due":"投稿のたび","who":"作業者","title":"投稿URLと名前を、そのカードの欄に保存","detail":"記録が集まらないと、何が出たかを後から確かめられません。","cid":""}],"builtAt":"2026-11-18 12:05","today":"2026-11-18","followers":{"date":"10-13","x":5,"ig":21,"note":0},"hero":"assets/hero.jpg","endpoint":"https://script.google.com/macros/s/AKfycbxhxM75PszpPOX_HDJ4yuBmQSqu1b7CXq2sbCxlqTZ_TyF8hROH2MyKnYNU11avb8UQCA/exec"}</script>
 <script>
 (function(){
   var DATA = JSON.parse(document.getElementById('desk-data').textContent);
